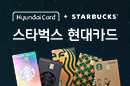
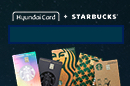
add : badges

Changed region(s): [[0.0615, 0.2791, 0.9538, 0.5116]]

diff --git a/index.html b/index.html
@@ -36,6 +36,13 @@
   <link rel="stylesheet" href="https://fonts.googleapis.com/icon?family=Material+Icons" />
   <link rel="stylesheet" href="./css/main.css">
 
+
+  <script src="https://cdnjs.cloudflare.com/ajax/libs/lodash.js/4.17.21/lodash.min.js"
+    integrity="sha512-WFN04846sdKMIP5LKNphMaWzU7YpMyCU245etK3g/2ARYbPK9Ub18eG+ljU96qKRCWh+quCY7yefSmlkQw1ANQ=="
+    crossorigin="anonymous" referrerpolicy="no-referrer"></script>
+  <script src="https://cdnjs.cloudflare.com/ajax/libs/gsap/3.6.0/gsap.min.js"
+    integrity="sha512-1dalHDkG9EtcOmCnoCjiwQ/HEB5SDNqw8d4G2MKoNwjiwMNeBAkudsBCmSlMnXdsH8Bm0mOd3tl/6nL5y0bMaQ=="
+    crossorigin="anonymous" referrerpolicy="no-referrer"></script>
   <script defer src="./js/main.js"></script>
 </head>
 
@@ -332,6 +339,14 @@
           </div>
         </li>
       </ul>
+      <div class="badges">
+        <div class="badge">
+          <img src="./images/badge1.jpg" alt="Badge">
+        </div>
+        <div class="badge">
+          <img src="./images/badge2.jpg" alt="Badge">
+        </div>
+      </div>
     </div>
   </header>
 </body>

diff --git a/css/main.css b/css/main.css
@@ -5,6 +5,7 @@ body {
   font-weight: 400;
   line-height:1.4;
   font-family: 'Roboto', sans-serif;
+  height:3000px;
 }
 
 img {
@@ -23,8 +24,12 @@ a {
 
 /* HEADER */
 header{
+  width: 100%;
   background-color: #f6f5f0;
   border-bottom: 1px solid #c8c8c8;
+  position: fixed;
+  top:0;
+
 }
 header > .inner{
   height: 120px;
@@ -181,5 +186,18 @@ header .main-menu .item .item__contents .contents__texture h4 {
 header .main-menu .item .item__contents .contents__texture p { 
   color: #669900;
   margin: 4px 0 14px;
+
+}
+header .badges {
+  position: absolute;
+  top:132px;
+  right:12px;
+}
+header .badges .badge {
+  border-radius: 10px;
+  overflow: hidden;
+  margin-bottom: 12px;
+  box-shadow: 4px 4px 10px rgba(0,0,0,.15);
+  cursor:pointer
 
 }

diff --git a/js/main.js b/js/main.js
@@ -13,3 +13,20 @@ searchInputEl.addEventListener('blur', function () {
   searchInputEl.setAttribute('placeholder', '');
 })
 
+const badgeEl = document.querySelector('header .badges');
+
+window.addEventListener('scroll', _.throttle(function () {
+  if (window.scrollY > 500) {
+    //badgeを隠す
+    gsap.to(badgeEl, .6, {
+      opacity: 0,
+      display: 'none'
+    })
+  } else {
+    //badgeを表示する
+    gsap.to(badgeEl, .6, {
+      opacity: 1,
+      display: 'block'
+    });
+  }
+}, 300))
